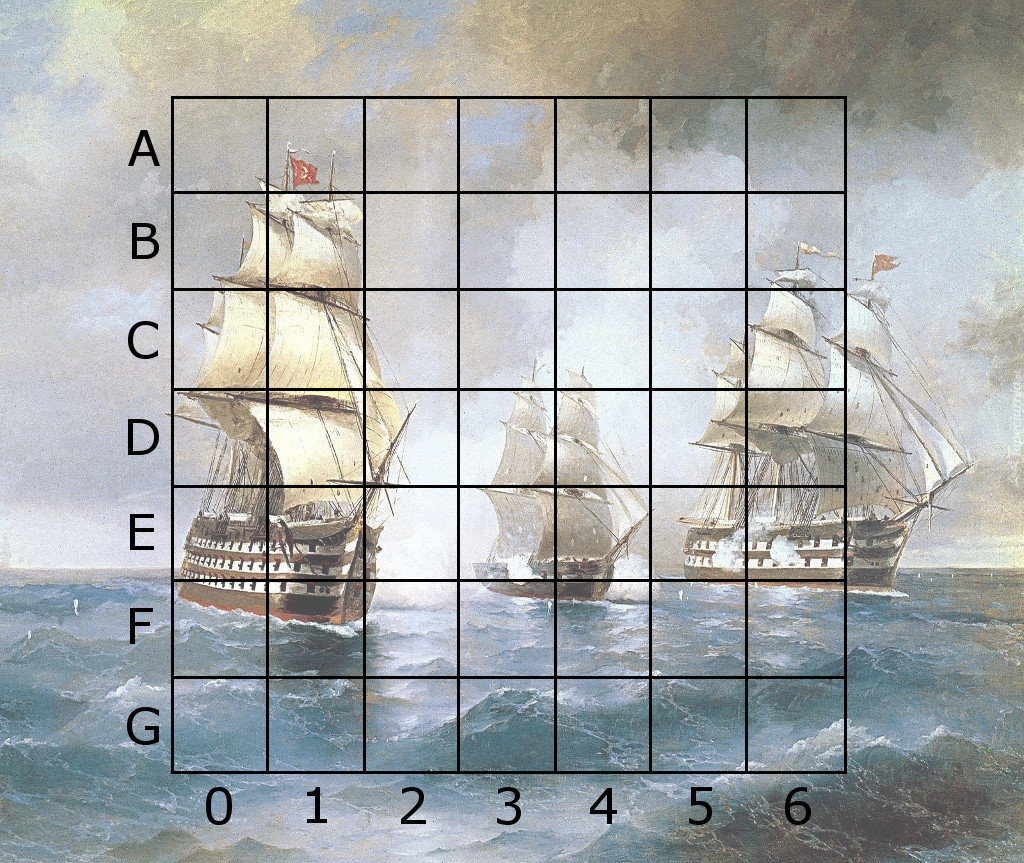
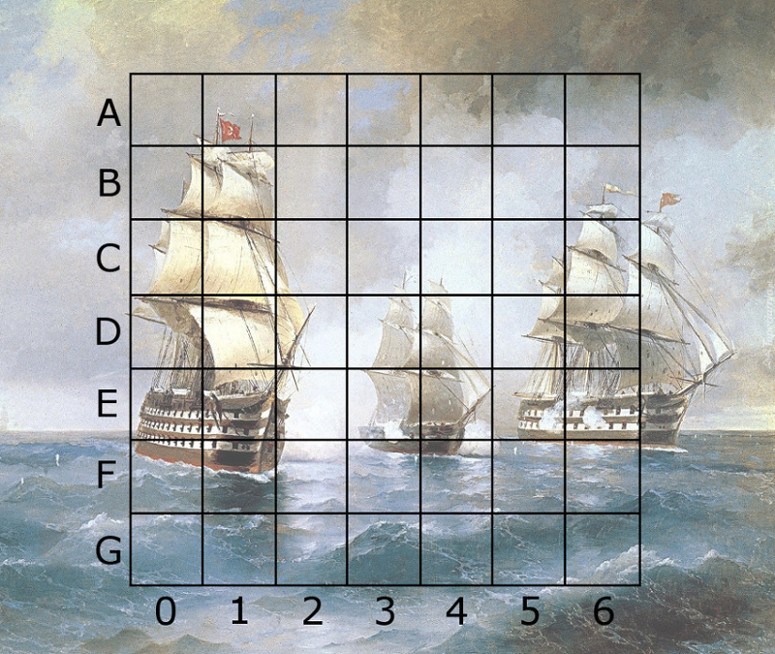
zmniejszenie planszy i poprawa kolorów

diff --git a/statki.js b/statki.js
@@ -14,11 +14,15 @@ var model = {
       var ship = this.ships[i];
       var locations = ship.locations;         // ta i następna linijke mozna skrocic jako: var index = ship.locations.indexOf(guess)
       var index = locations.indexOf(guess);
-      if (index >= 0){
+      if (ship.hits[index] === "hit") {
+          view.displayMessage("Już wcześniej trafiłeś to pole");
+          return true;
+      } else if (index >= 0){
         ship.hits[index] = "hit";
         view.displayHit(guess);
         view.displayMessage("Trafiony!");
-        if (this.isSunk(ship)){
+        
+          if (this.isSunk(ship)){
           view.displayMessage("Zatopiłeś okręt!");
           this.shipsSunk++;
         }
@@ -28,16 +32,16 @@ var model = {
     view.displayMiss(guess);
     view.displayMessage("Spudłowałeś.");
     return false;
-  },
+    },
   
     isSunk: function(ship){
-    for (var i = 0; i < this.shipLength; i++){
-      if (ship.hits[i] !== "hit"){
-        return false;
-      }
-      return true;
-    }
-  },
+        for (var i = 0; i < this.shipLength; i++){
+            if (ship.hits[i] !== "hit"){
+            return false;
+            }
+        return true;
+        }
+    },
    
     generateShipsLocations: function(){
         var locations;

diff --git a/statki.html b/statki.html
@@ -9,9 +9,9 @@
       }
 
       div#board {
-        posiotion: relative;
-        width: 1024px;
-        height: 863px;
+        position: relative;
+        width: 850px;
+        height: 717px;
         margin: auto;
         background: url("board.jpg") no-repeat;
       }
@@ -19,28 +19,28 @@
         position: absolute;
         top: 0px;
         left: 0px;
-        color: rgb(83, 0, 0);
+        color: rgb(219, 66, 39);
       }
       table {
         position: absolute;
-        left: 336px;
-        top: 105px;
+        left: 130px;
+        top: 73px;
         border-spacing: 0px;
       }
       td {
-        width: 94px;
-        height: 94px;
+        width: 71px;
+        height: 71px;
       }
       form {
         position: absolute;
-        bottom: 0px;
+        top: 0px;
         right: 0px;
         padding: 15px;
-        background-color: rgb(83, 0, 0);
+        background-color: rgb(170, 175, 135);
       }
       form input {
-        background-color: rgb(152, 207, 113);
-        border-color: rgb(83, 175, 19);
+        background-color: darkkhaki;
+        border-color: rgb(136, 139, 113);
         font-size: 1em;
       }
       .hit {
